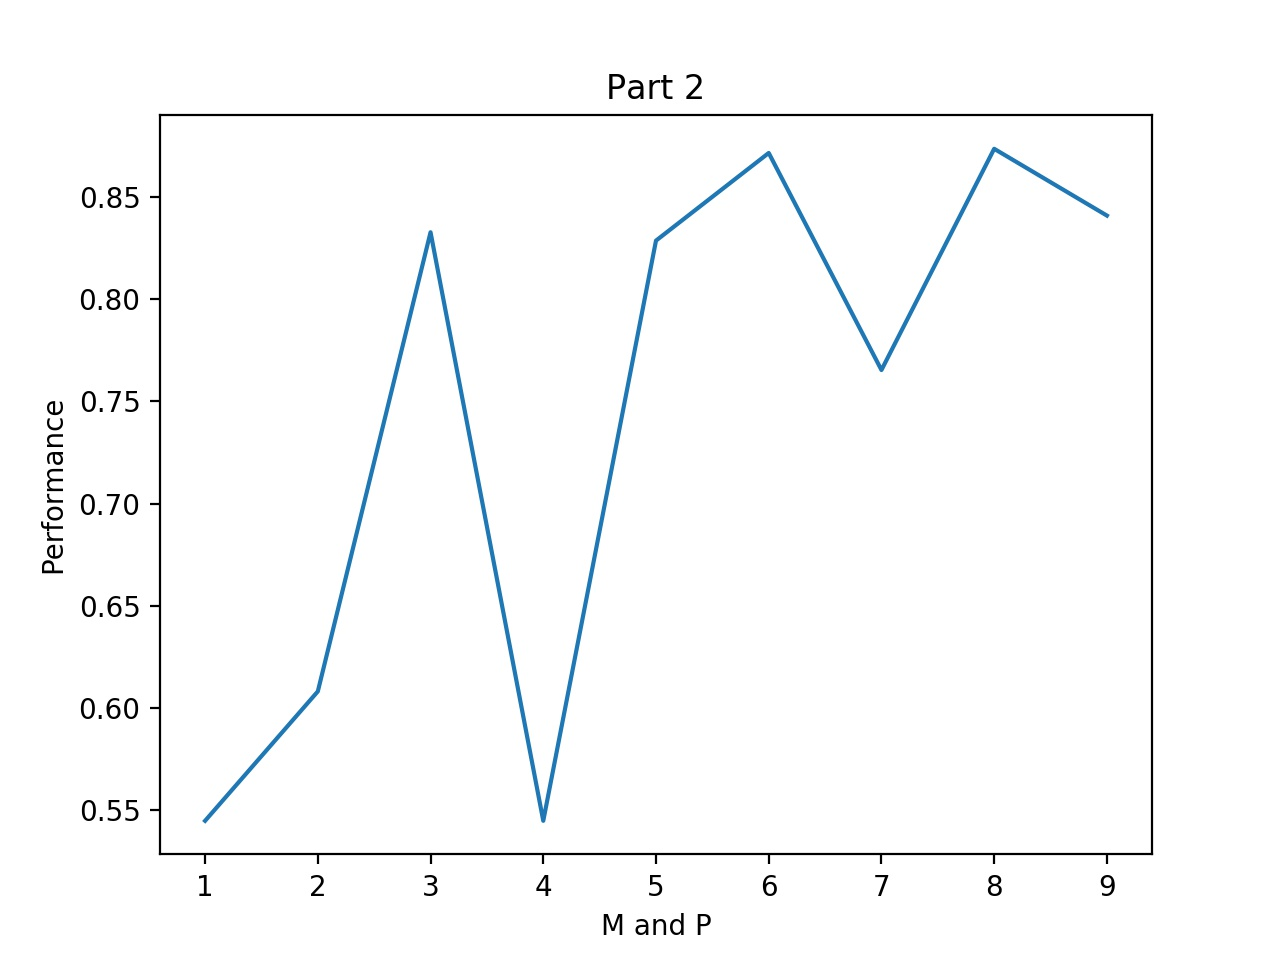
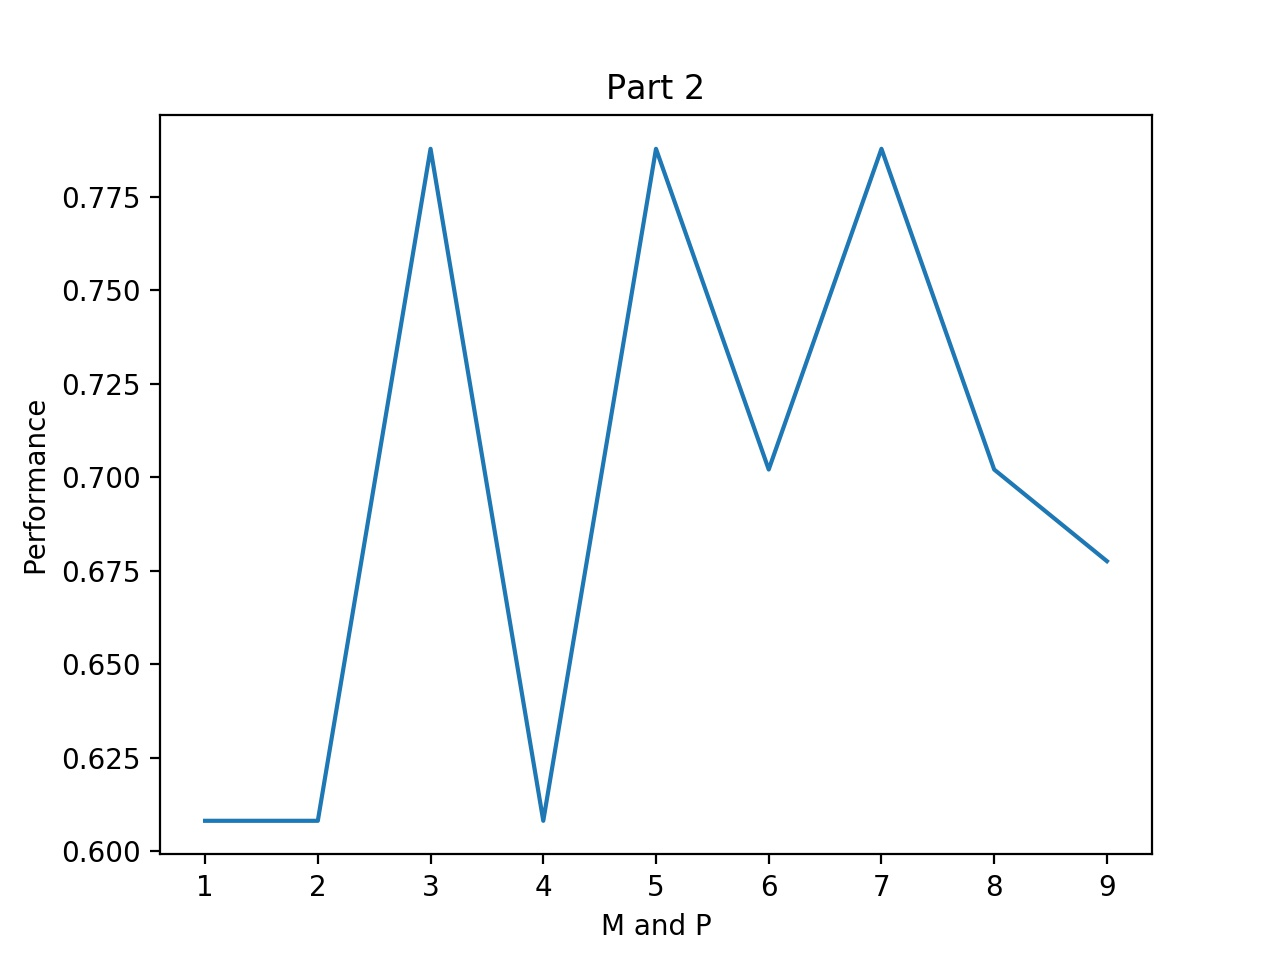
part3a update

diff --git a/naivebayes.py b/naivebayes.py
@@ -2,6 +2,7 @@ import numpy as np
 import random
 import matplotlib.pyplot as plt
 from sklearn.feature_extraction.text import ENGLISH_STOP_WORDS
+import math
 
 set_order = {'training': 0, 'validating': 1, 'testing': 2, 'all': 3}
 word_pos_neg = {'real': 1, 'fake': 0}
@@ -209,9 +210,22 @@ def part3a(p_fake, p_real, p_fake_nw, p_real_nw, sets, m, p, expected, training)
     pwordf = get_prob_words_given_C(words_counts, 0, num_fake_data, m, p)
 
     # P(not word | real)
-    pnwordr = get_prob_words_not_given_C(words_counts, 1, num_real_data, m, p)
+    pnwordr = pwordr.copy()
+    sum_pnwordr = math.exp(sum([item for key, item in pwordr.items()]))
+    for key, item in pnwordr.items():
+        pnwordr[key] = sum_pnwordr - math.exp(pnwordr[key])
+
+    # pnwordr = get_prob_words_not_given_C(words_counts, 1, num_real_data, m, p)
+
     # P(not word | fake)
-    pnwordf = get_prob_words_not_given_C(words_counts, 0, num_fake_data, m, p)
+    pnwordf = pwordf.copy()
+    sum_pnwordf = math.exp(sum([item for key, item in pwordf.items()]))
+    for key, item in pnwordf.items():
+        pnwordf[key] = sum_pnwordf - math.exp(pnwordf[key])
+    # for key in pnwordf.keys():
+    #     temp = math.exp(pnwordf[key])
+    #     pnwordf[key] = math.log(1 - temp)
+    # pnwordf = get_prob_words_not_given_C(words_counts, 0, num_fake_data, m, p)
 
     for the_word in sets:
         Cfake, Creal = part3a_help(preal, pfake, pwordr, pwordf, [the_word])
@@ -286,17 +300,16 @@ if __name__ == '__main__':
     print ("P(fake | not word)")
     print (sorted(p_fake_nw, key=p_fake_nw.get, reverse=True)[:10])
 
+    nonstop_p_real_w = p_real_w.copy()
+    nonstop_p_fake_w = p_fake_w.copy()
 
-
-    # 10 presence most predict real
-    # P(real | word) = P(word | real) P(real) / P(word)
-
-
-    # 10 absence most predict real
-    # P(real | not word) = P(not word | real) P(real) / P(word)
-
-    # 10 presence most predict fake
-    # P(fake | word) = P(word | fake) P(fake) / P(word)
-
-    # 10 absence most predict fake
-    # P(fake | not word) = P(not word | fake) P(fake) / P(word)
+    for word in ENGLISH_STOP_WORDS:
+        if word in nonstop_p_real_w.keys():
+            nonstop_p_real_w.pop(word)
+        if word in nonstop_p_fake_w.keys():
+            nonstop_p_fake_w.pop(word)
+    print ("****************************")
+    print ("P(real | word) in Non-stop word")
+    print (sorted(nonstop_p_real_w, key=nonstop_p_real_w.get, reverse=True)[:10])
+    print ("P(fake | word) in Non-stop word")
+    print (sorted(nonstop_p_fake_w, key=nonstop_p_fake_w.get, reverse=True)[:10])
